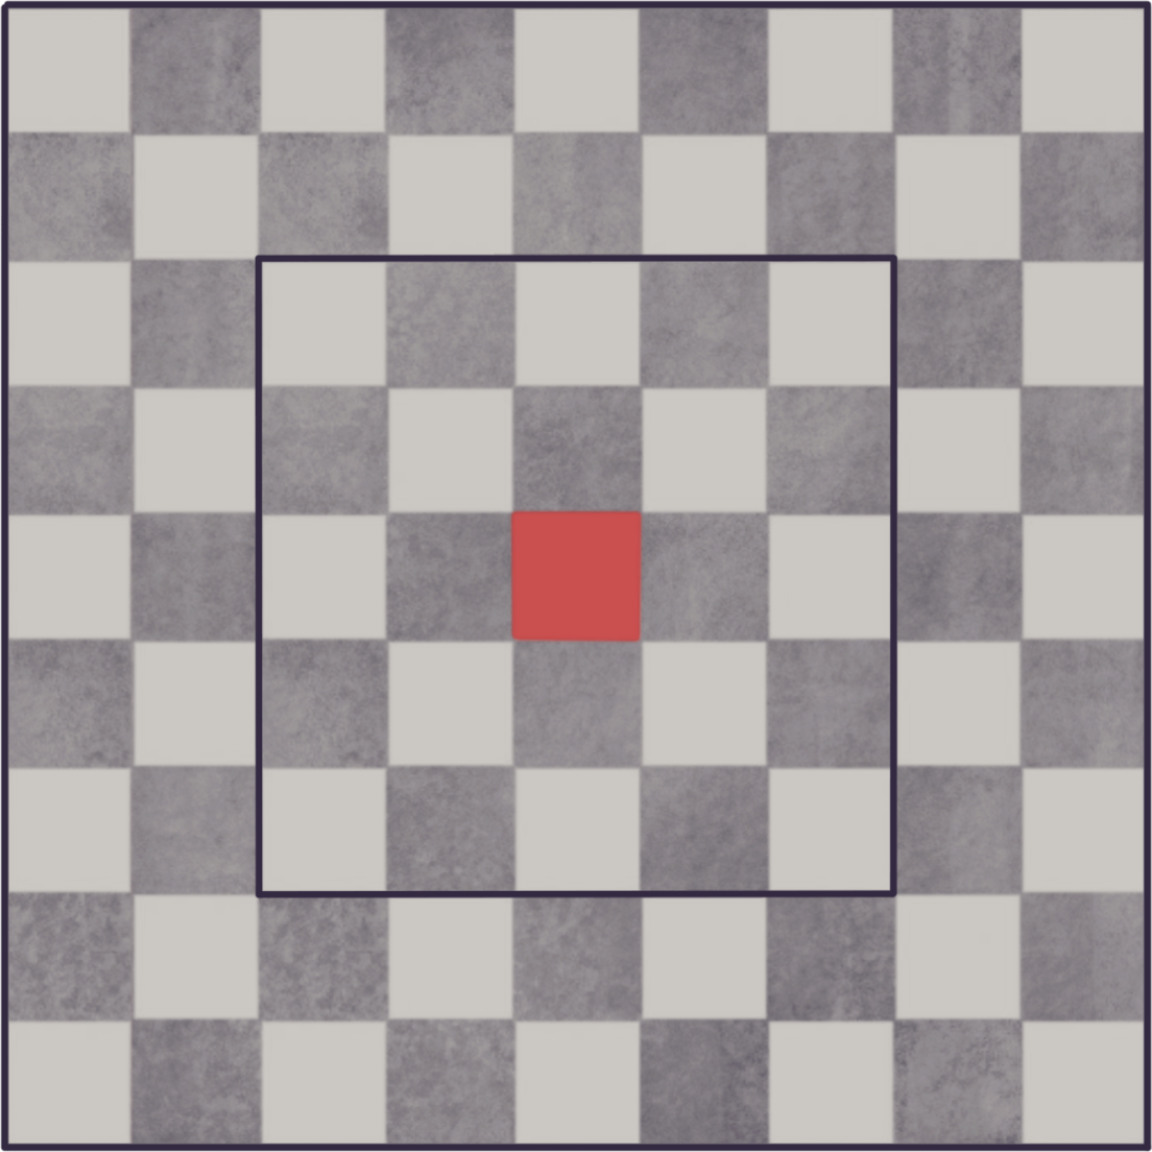
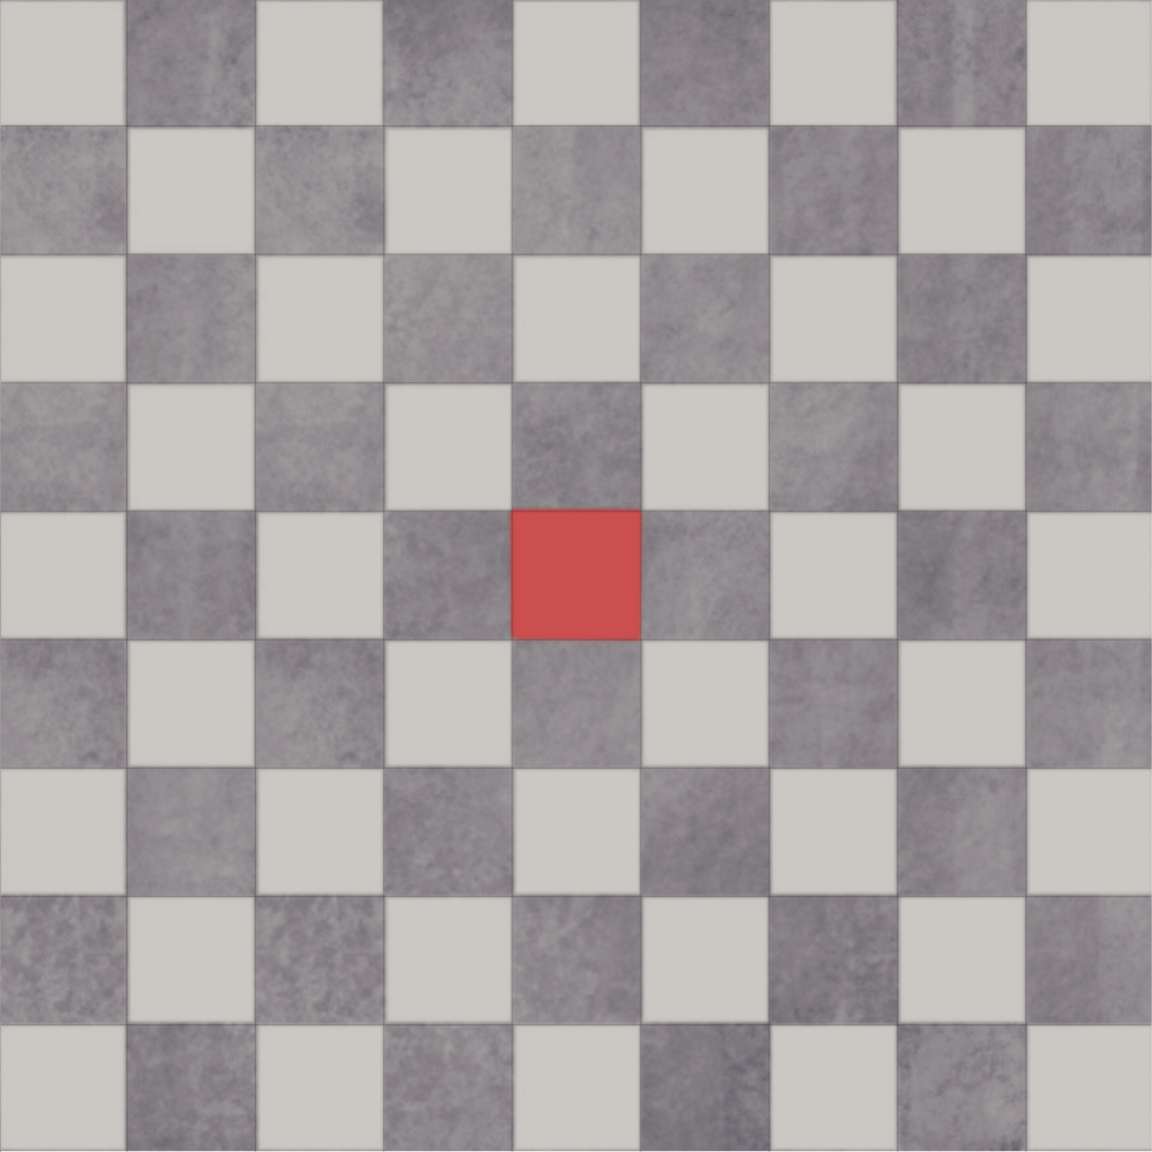
fixed kniazhych rokash

diff --git a/src/data/game/tests/rokash.test.ts b/src/data/game/tests/rokash.test.ts
@@ -1,0 +1,18 @@
+import { computeNewGameState, GameStateSnapshot, getAvailableMotions, getGameConclusion } from "../domain";
+import { chunk } from "lodash";
+
+const sortMotions = (a, b) => a.y - b.y || a.x - b.x;
+
+describe("rokash", () => {
+    it("kniazhych should put rokash when no kniaz in palace", () => {
+        const game: GameStateSnapshot = {"field":["wl-1","wv-1","wg-1","wgt",0,"wkc","wv-2","wg-2","wl-2","wr-1","wr-2",0,0,"wr-5","wr-6","wr-7","wr-8","wr-9",0,0,"wr-3",0,0,0,0,0,0,0,0,0,"wr-4",0,0,0,0,0,0,0,0,"br-4","wkz",0,0,0,0,0,0,0,0,0,0,0,0,0,0,0,0,"bkc",0,0,0,0,0,"br-1","br-2","br-3",0,"br-5",0,"br-7","br-8","br-9","bl-1","bg-1","bv-1",0,"bkz","bgt","bg-2","bv-2","bl-2"],"activeSide":"b","figuresMoved":{"wr-4":true,"br-4":true,"wkz":true,"bkc":true,"wr-3":true,"br-6":true},"karanacyjaHappened":false};
+        const motions = getAvailableMotions(game, { x: 3, y: 6 }, false);
+        expect(motions.sort(sortMotions)).toEqual([
+            { y: 4, x: 5 },
+            { y: 5, x: 3 },
+            { y: 5, x: 4 },
+            { y: 6, x: 2 },
+            { y: 6, x: 4 },
+        ]);
+    })
+})

diff --git a/src/app/Game/Game.tsx b/src/app/Game/Game.tsx
@@ -135,12 +135,13 @@ export const Game = ({ displaySide }: Props) => {
                             ))}
                         </Styles.Row>
                     ))}
-                    {/* <Styles.Layer>
-                        <Styles.Palac />
-                        <Styles.Tron>X</Styles.Tron>
-                    </Styles.Layer> */}
                     <Styles.Layer>
                         <Styles.GameField src="images/pole.png" />
+                    </Styles.Layer>
+                    <Styles.Layer>
+                        <Styles.FieldBorder />
+                        <Styles.Palac />
+                        {/* <Styles.Tron>X</Styles.Tron> */}
                     </Styles.Layer>
                     <Styles.Layer>
                         {rotatedCellNumeration.map((row) => (

diff --git a/src/app/Game/Game.styles.ts b/src/app/Game/Game.styles.ts
@@ -96,6 +96,16 @@ export const Palac = styled.div`
     box-sizing: border-box;
 `;
 
+export const FieldBorder = styled.div`
+    position: absolute;
+    left: 0px;
+    top: 0px;
+    width: ${createScaled(CELL_SIZE * 9 + 2)}px;
+    height: ${createScaled(CELL_SIZE * 9 + 2)}px;
+    border: 2px black solid;
+    box-sizing: border-box;
+`;
+
 export const Tron = styled.div`
     position: absolute;
     left: ${createScaled(CELL_SIZE * 4)}px;
@@ -120,6 +130,7 @@ export const Layer = styled.div`
 `;
 
 export const GameField = styled.img`
+    user-select: none;
     width: ${createScaled(BOARD_PX_SIZE)}px;
     height: ${createScaled(BOARD_PX_SIZE)}px;
 `;

diff --git a/src/data/game/domain.ts b/src/data/game/domain.ts
@@ -359,7 +359,7 @@ const kniazhych: FigureStrategy = (board, figuresMoved, coord, checkAttack) => {
             }
         }
     }
-    const tronPolicy = kniazInPalac ? TronPolicy.STEP : TronPolicy.SKIP;
+    const tronPolicy = (kniazInPalac || checkAttack) ? TronPolicy.STEP : TronPolicy.SKIP;
     return [
         ...laddzia(2, tronPolicy)(board, figuresMoved, coord, checkAttack),
         ...garmata(2, tronPolicy)(board, figuresMoved, coord, checkAttack),
